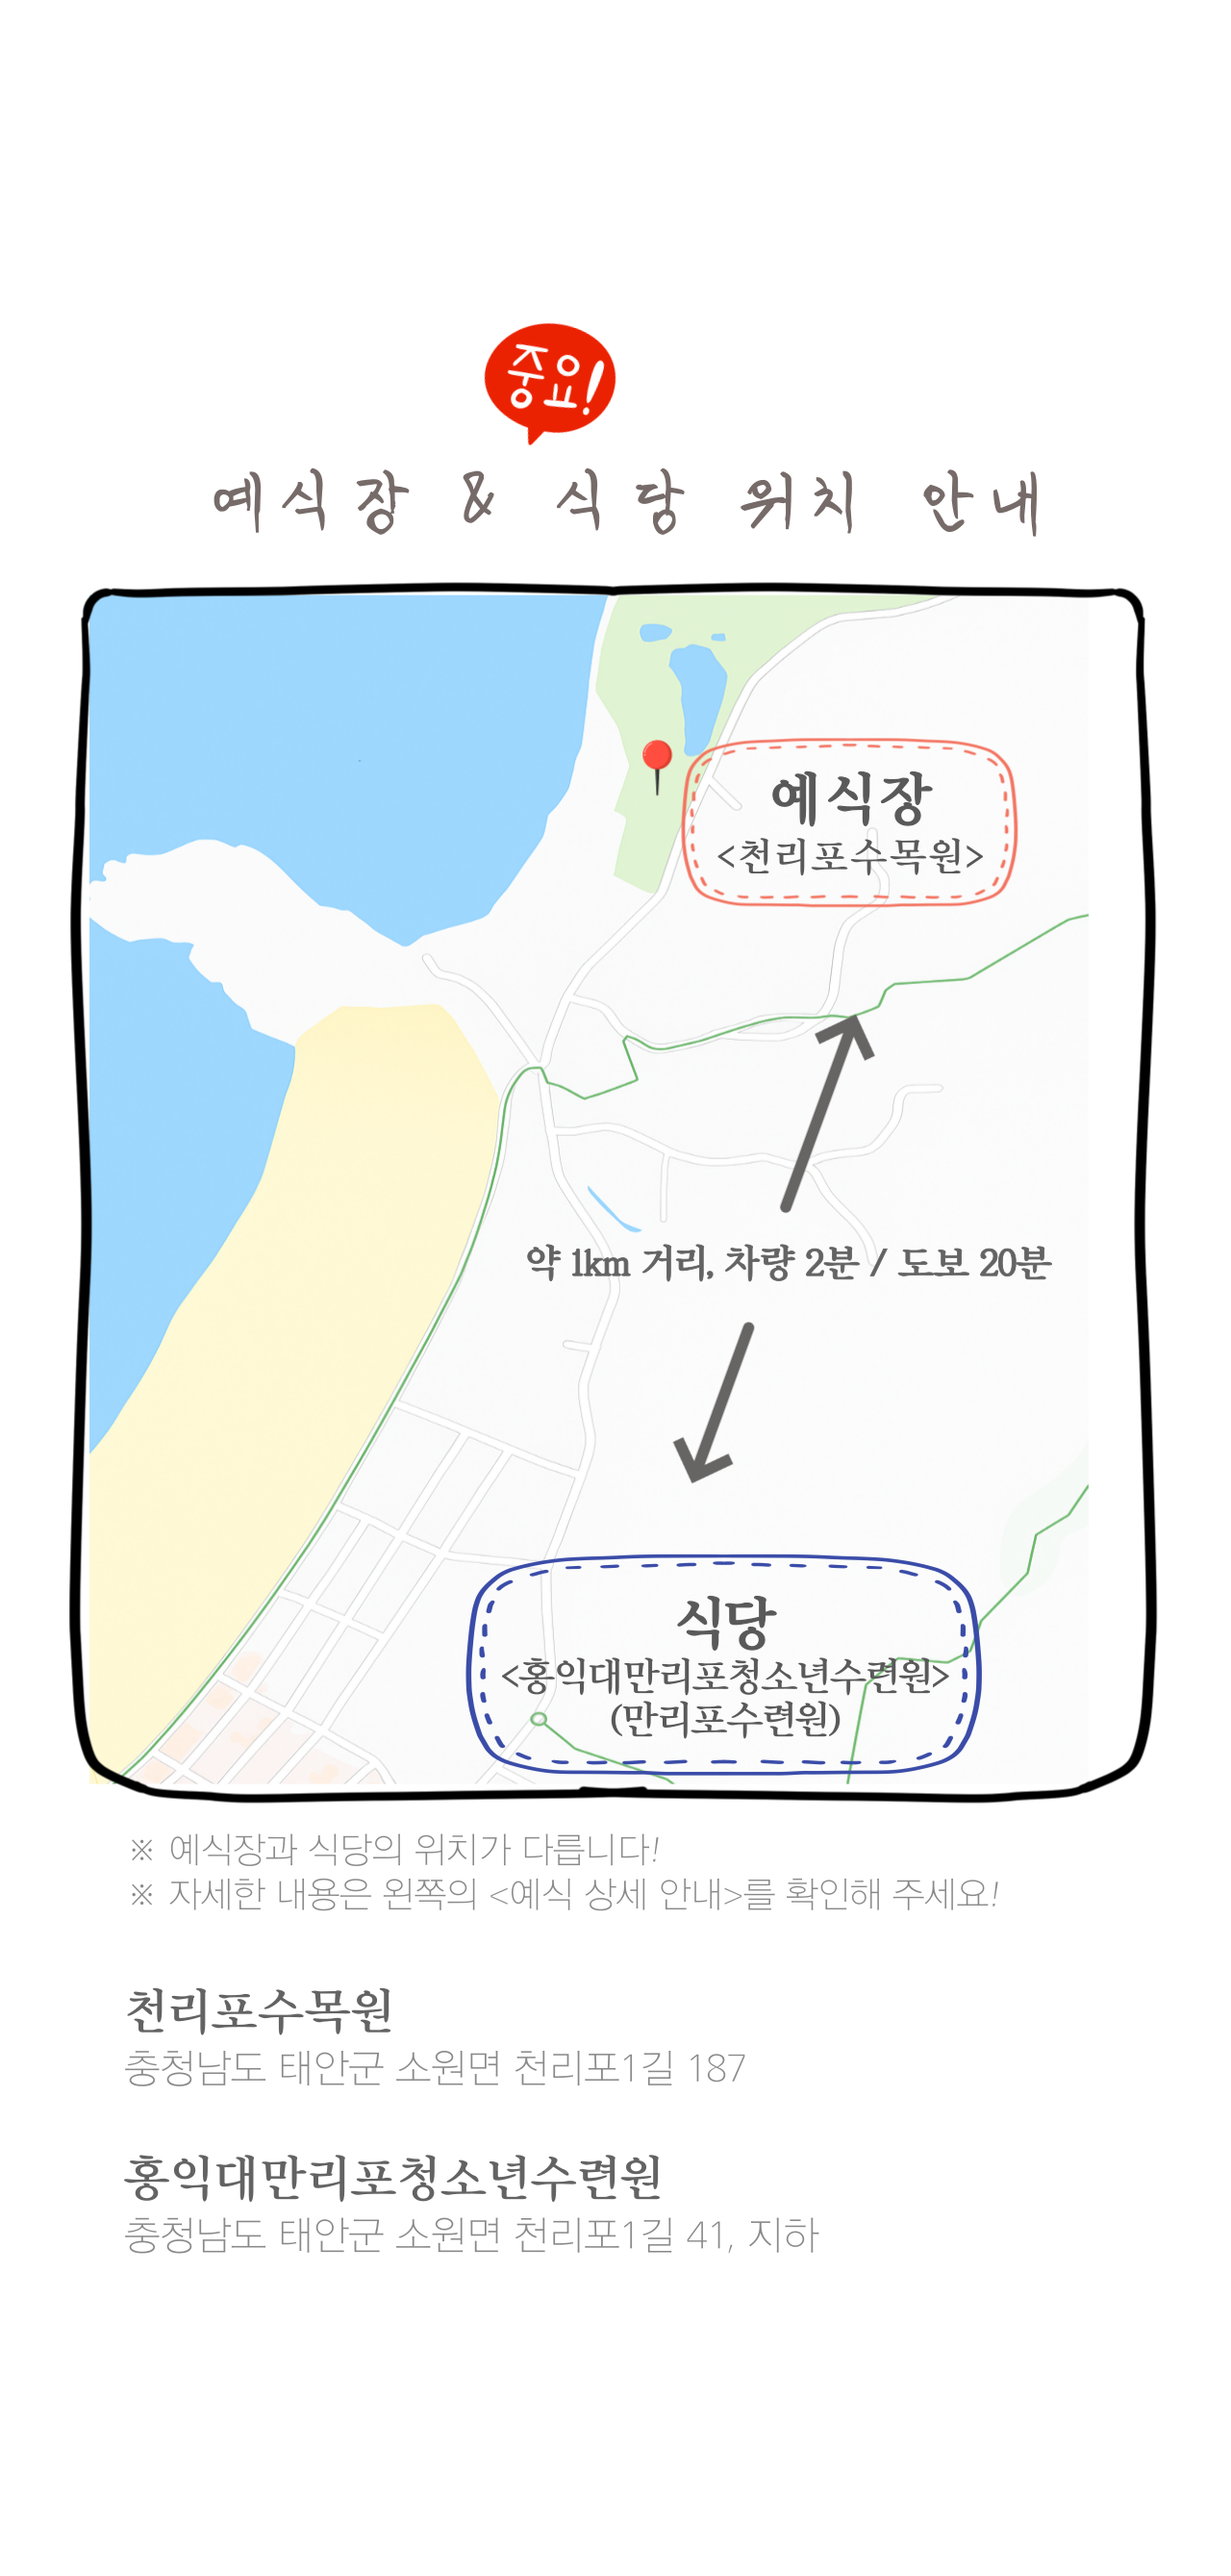
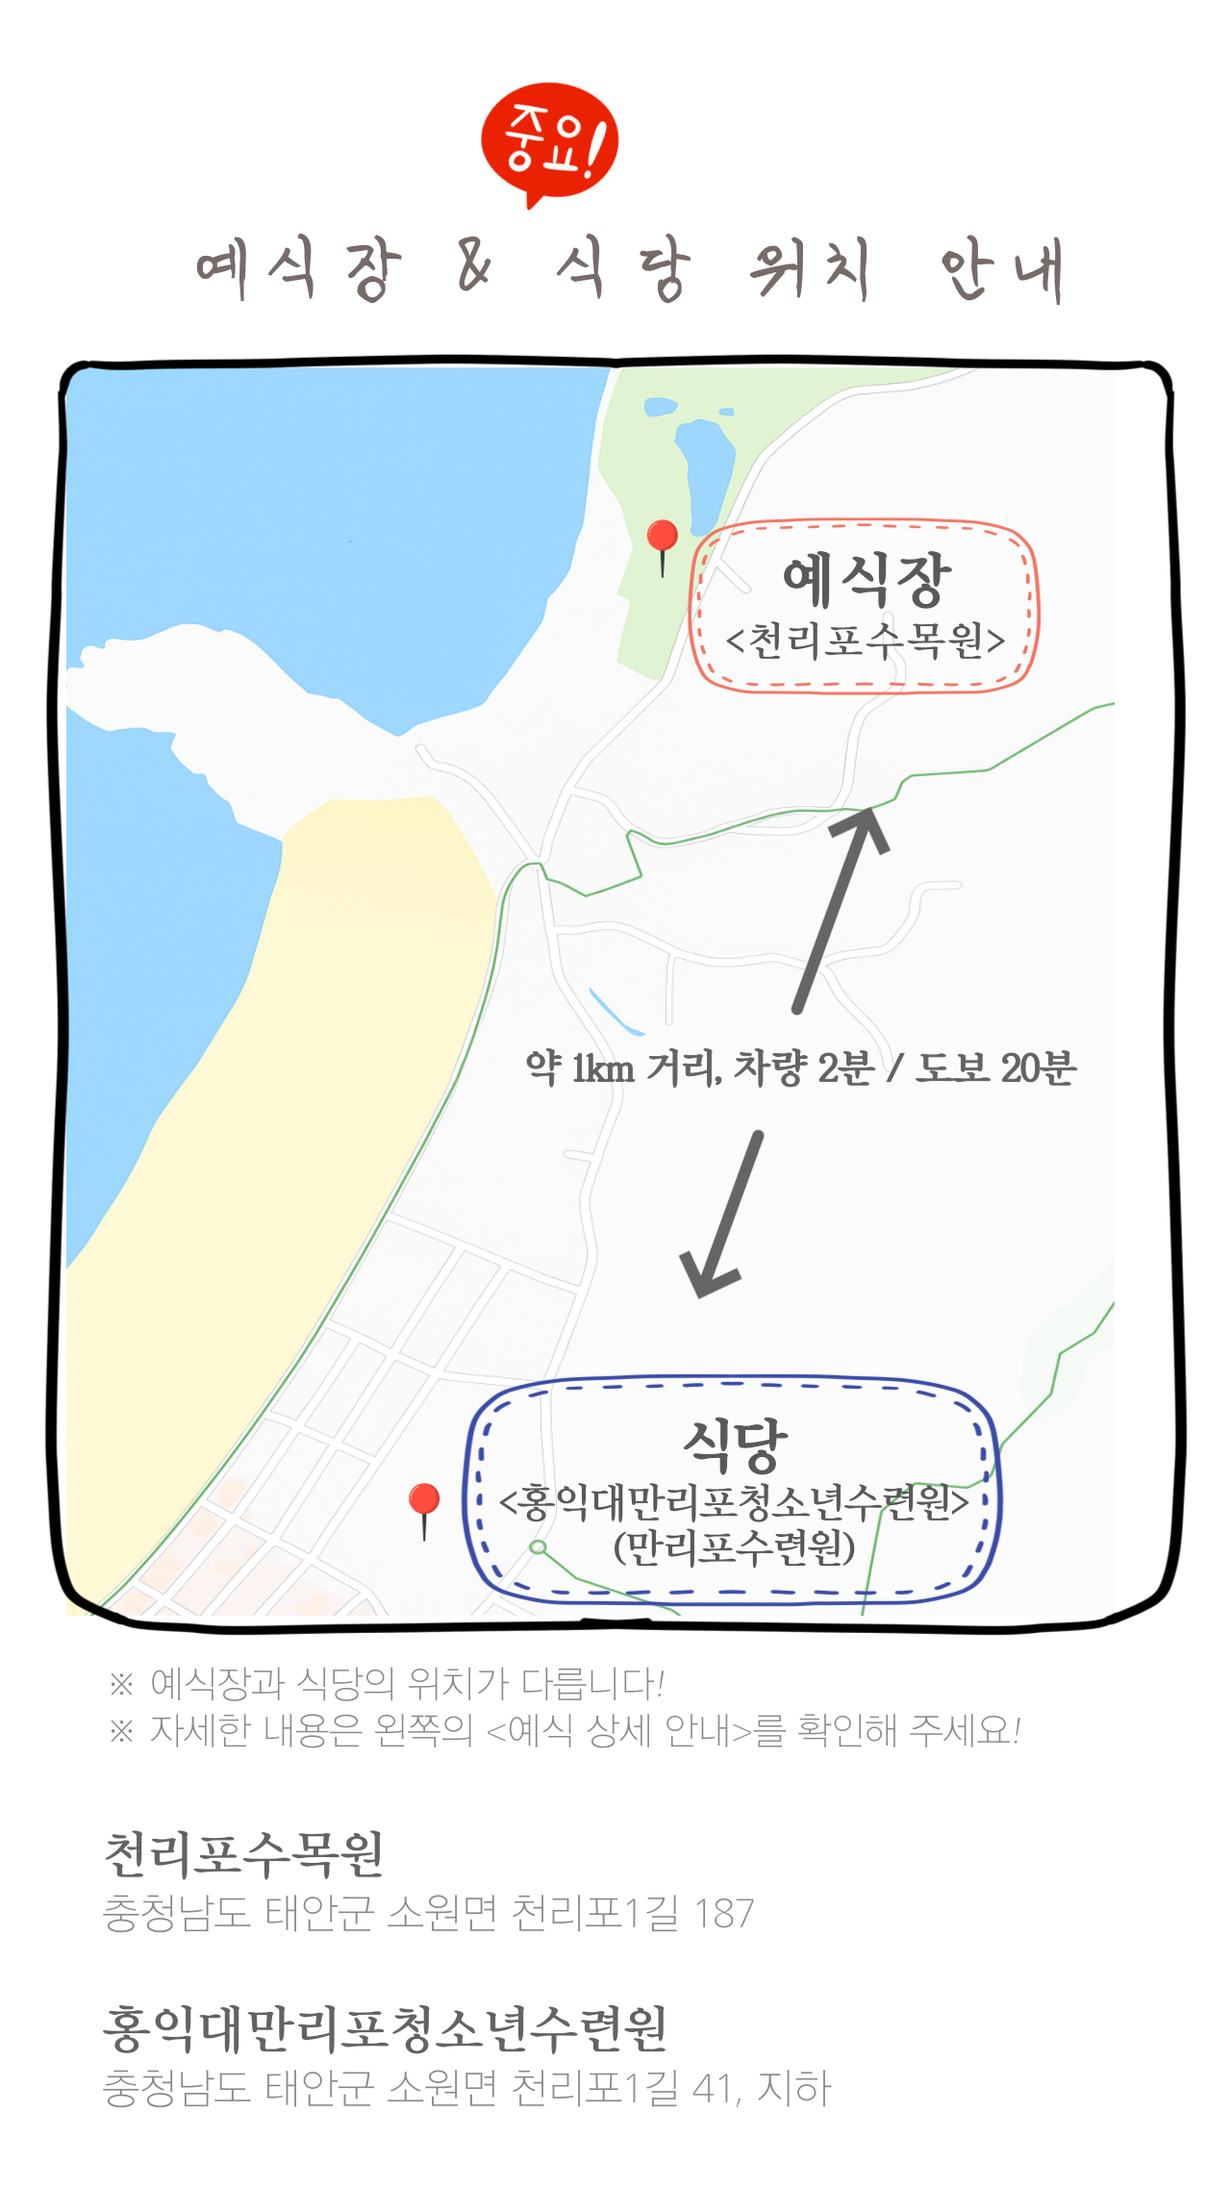
이미지 내 핀 추가, 카카오 길찾기 추가

diff --git a/index.html b/index.html
@@ -66,6 +66,41 @@
             display: block;
         }
 
+        /* 네비게이션 버튼 컨테이너 */
+        .navigation-button-container {
+            display: flex;
+            justify-content: center;
+            padding: 25px 20px;
+            background-color: white;
+            margin-bottom: 30px;
+        }
+
+        .navigation-button {
+            display: inline-block;
+            background: linear-gradient(135deg, #FEE500 0%, #FFCD00 100%);
+            color: #3C1E1E;
+            text-decoration: none;
+            padding: 16px 32px;
+            border-radius: 30px;
+            font-size: 17px;
+            font-weight: 700;
+            box-shadow: 0 4px 15px rgba(255, 205, 0, 0.3);
+            transition: all 0.3s ease;
+            border: 2px solid #FFCD00;
+            text-align: center;
+            min-width: 180px;
+        }
+
+        .navigation-button:hover {
+            transform: translateY(-2px);
+            box-shadow: 0 6px 20px rgba(255, 205, 0, 0.4);
+            background: linear-gradient(135deg, #FFCD00 0%, #FEE500 100%);
+        }
+
+        .navigation-button:active {
+            transform: translateY(0);
+        }
+
         /* 플로팅 버튼 */
         .floating-button {
             position: fixed;
@@ -278,6 +313,18 @@
                 padding-bottom: 120px;
             }
             
+            .navigation-button-container {
+                padding: 20px 15px;
+            }
+            
+            .navigation-button {
+                padding: 18px 35px;
+                font-size: 18px;
+                font-weight: 700;
+                border-radius: 35px;
+                min-width: 200px;
+            }
+            
             .floating-button {
                 bottom: 20px;
                 padding: 20px 35px;
@@ -290,6 +337,12 @@
 
         /* 작은 모바일 화면 (아이폰 SE 등) */
         @media (max-width: 375px) {
+            .navigation-button {
+                padding: 16px 30px;
+                font-size: 16px;
+                min-width: 180px;
+            }
+            
             .floating-button {
                 padding: 18px 30px;
                 font-size: 17px;
@@ -325,6 +378,16 @@
             <img src="./img/001.png" />
             <img src="./img/002.png" />
             <img src="./img/003.png" />
+            
+            <!-- 카카오 길찾기 버튼 -->
+            <div class="navigation-button-container">
+                <a href="https://map.kakao.com/?map_type=TYPE_MAP&target=car&rt=,,310239.00000000076,917572.9999999981&rt1=&rt2=%EC%B2%9C%EB%A6%AC%ED%8F%AC%EC%88%98%EB%AA%A9%EC%9B%90&rtIds=,8082599" 
+                   target="_blank" 
+                   class="navigation-button">
+                    📍 카카오 길찾기
+                </a>
+            </div>
+            
             <img src="./img/004.png" />
             <img src="./img/005.png" />
         </div>
